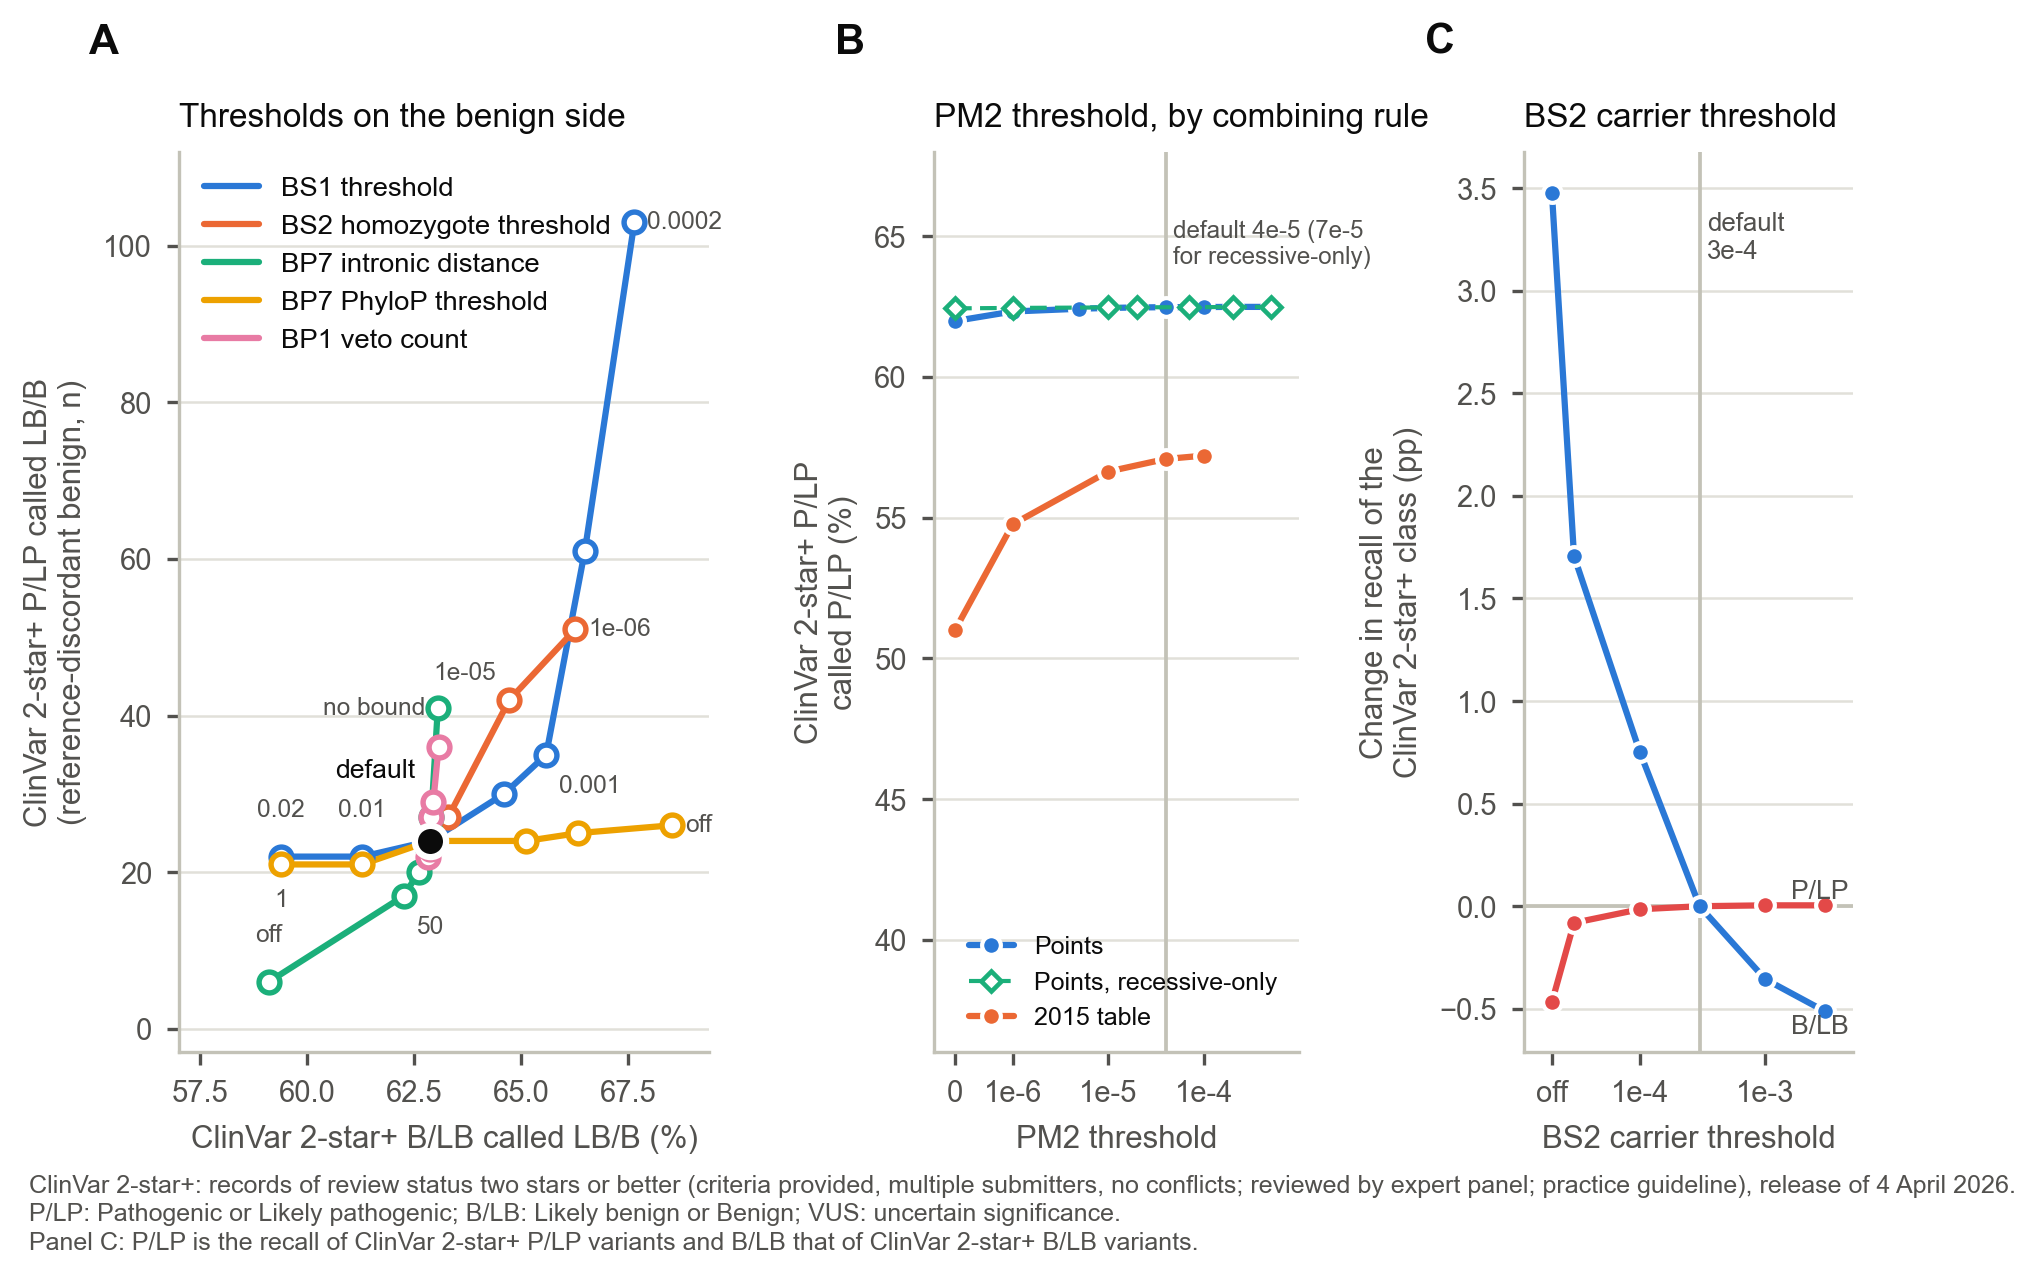
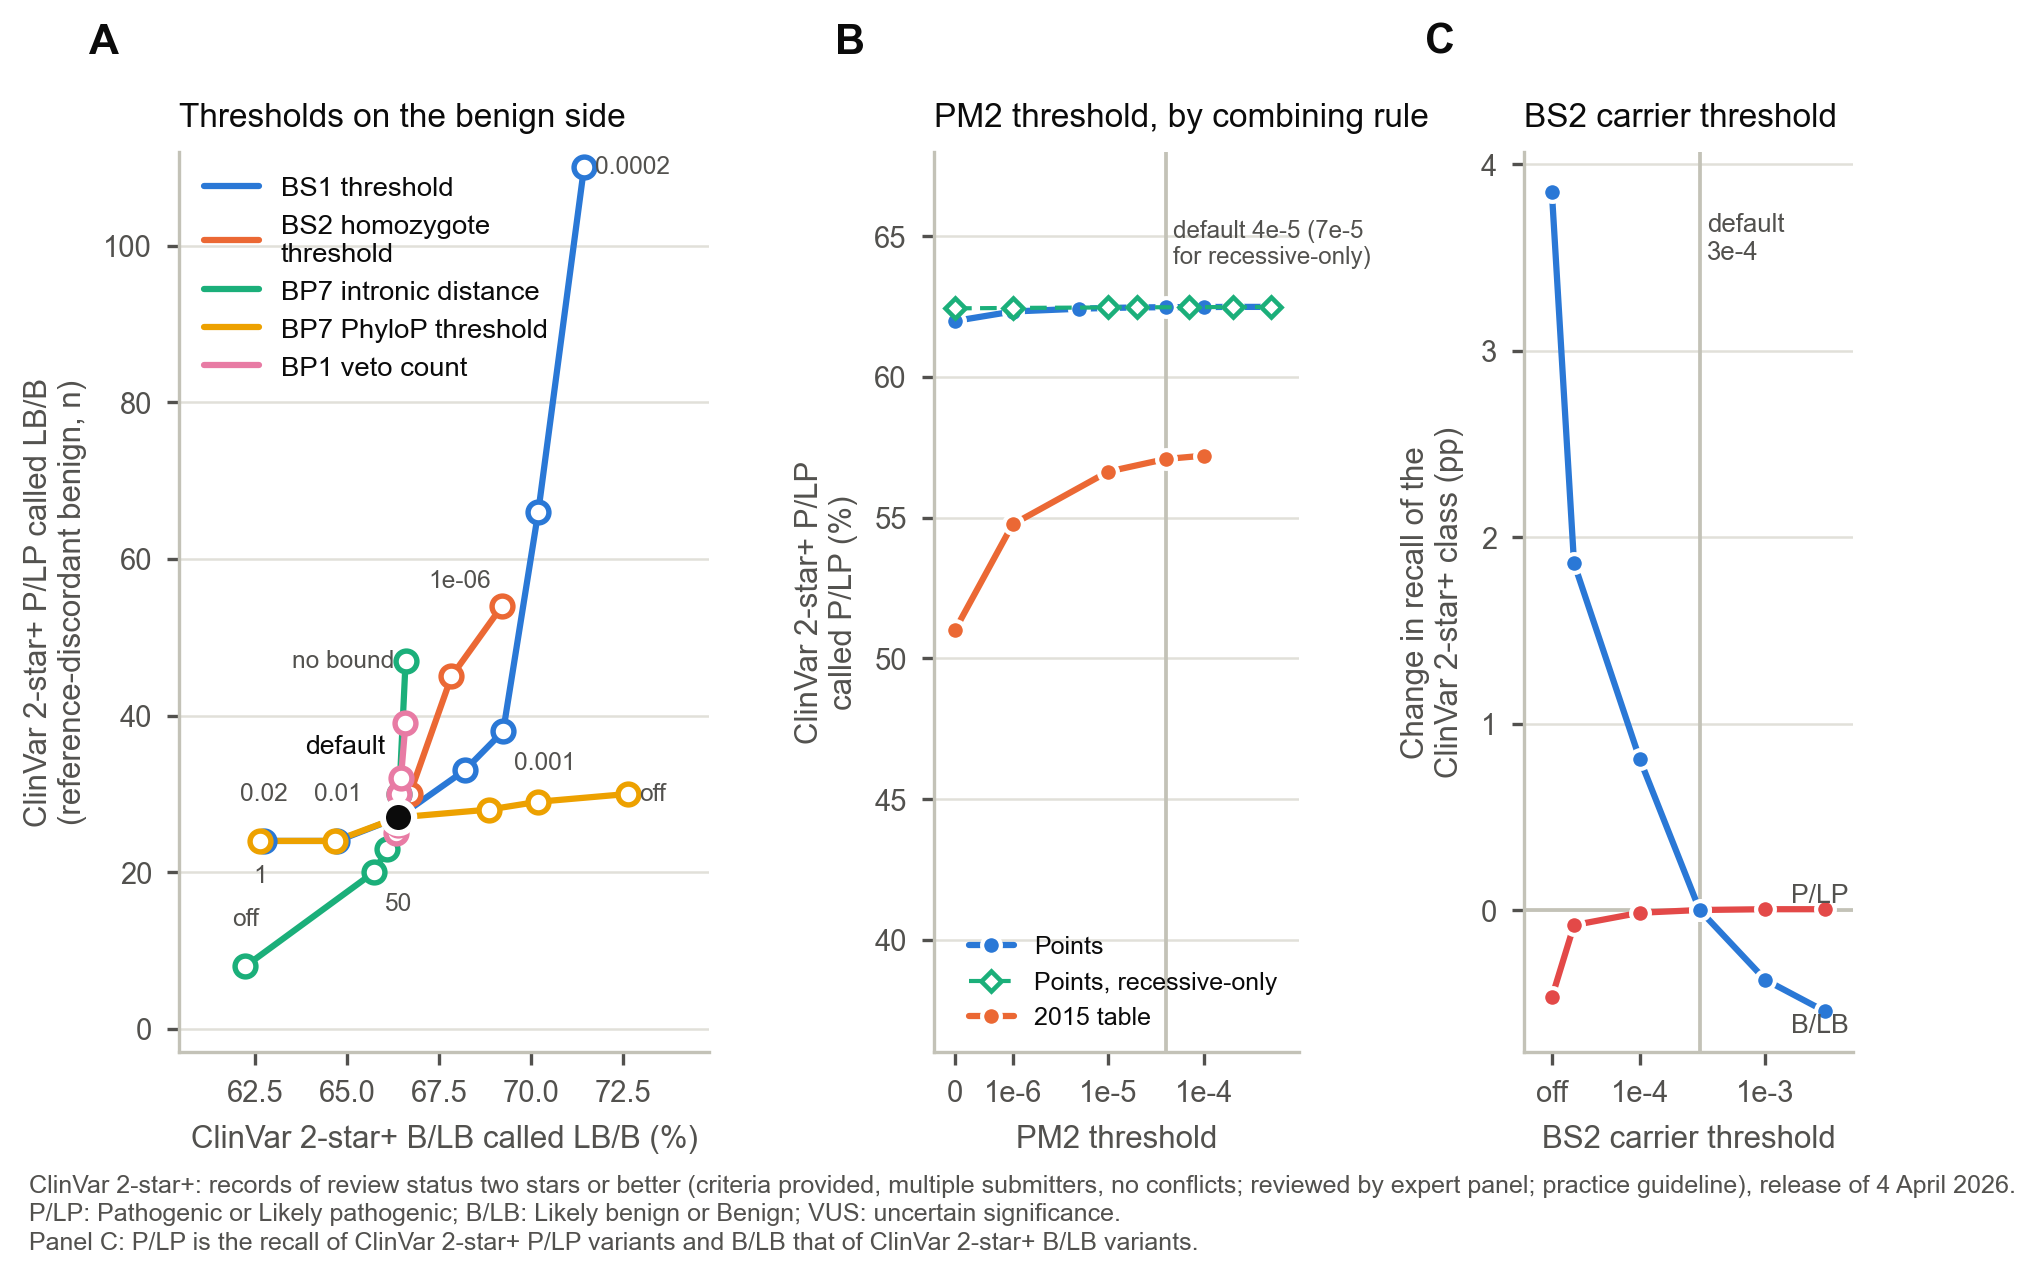
docs(acmg): redraw the figures from the runs on the complete databases and let the axes of Figure 1A follow the curves, so that no curve leaves its frame
The benign-side recall of every run rose with the complete databases, which put the right end of the BS1 curve outside the fixed limits of Figure 1A and its labels in the next panel. The limits follow the data, the legend entry of the BS2 threshold has two lines, and the label of R2 alone in Figure S4 sits left of its marker, clear of the longer legend.

diff --git a/manuscript/acmg/generate_figures.py b/manuscript/acmg/generate_figures.py
@@ -880,16 +880,18 @@ def fig1_thresholds() -> None:
     # (dx, dy, alignment) of each labelled point, in data units, chosen so no label sits on a line.
     knobs = [
         ("bs1_af_threshold", "BS1 threshold", CAT[0], "0.005", {"0.0002": (0.3, 0, "left"), "0.001": (0.3, -4, "left"), "0.02": (0, 6, "center"), "0.01": (0, 6, "center")}),
-        ("bs2_hom_prevalence_threshold", "BS2 homozygote threshold", CAT[1], "0.001", {"1e-06": (0.3, 0, "left"), "1e-05": (-0.3, 3.5, "right")}),
+        ("bs2_hom_prevalence_threshold", "BS2 homozygote threshold", CAT[1], "0.001", {"1e-06": (-0.3, 3.2, "right")}),
         ("bp7_max_intron_offset", "BP7 intronic distance", CAT[2], "300", {"0": (0, 6, "center"), "50": (0.3, -4, "left"), "1000000": (-0.3, 0, "right")}),
         ("phylop_conserved", "BP7 PhyloP threshold", CAT[3], "2.0", {"1": (0, -4.5, "center"), "1000": (0.3, 0, "left")}),
         ("bp1_max_pathogenic_missense", "BP1 veto count", CAT[4], "3", {"1": (0.3, -3.5, "left"), "25": (0.3, 0, "left")}),
     ]
-    show = {"bs1_af_threshold": {"0.0002", "0.001", "0.01", "0.02"}, "bs2_hom_prevalence_threshold": {"1e-06", "1e-05"},
+    show = {"bs1_af_threshold": {"0.0002", "0.001", "0.01", "0.02"}, "bs2_hom_prevalence_threshold": {"1e-06"},
             "bp7_max_intron_offset": {"0", "50", "1000000"}, "phylop_conserved": {"1", "1000"}, "bp1_max_pathogenic_missense": set()}  # its points sit on the default one and on BP7's line; the caption names the range
+    all_x = [float(base.blb_recall) * 100]
     for knob, label, color, shipped, offs in knobs:
         sub = r[(r.knob == knob) & (r.group == "sweep")].copy()
         sub["v"] = sub.value.astype(str)
+        all_x += [float(v_) * 100 for v_ in sub.blb_recall]
         pts = [(float(base.blb_recall) * 100, int(base.false_benign), shipped)]
         for row in sub.itertuples():
             pts.append((row.blb_recall * 100, int(row.false_benign), row.v))
@@ -906,12 +908,14 @@ def fig1_thresholds() -> None:
                 axA.text(x + dx, y + dy, fmt, fontsize=5.9, color=INK2, ha=ha, va="center")
     axA.plot([float(base.blb_recall) * 100], [int(base.false_benign)], marker="o", ms=MS + 2, mfc=INK, mec=SURFACE, mew=1.5, zorder=5)
     axA.text(float(base.blb_recall) * 100 - 0.35, int(base.false_benign) + 9, "default", fontsize=6.4, color=INK, ha="right", va="center")
-    axA.set_xlim(57, 69.4)
+    # limits that follow the curves (the right margin holds the label of the last BS1 point, which is written to its right)
+    axA.set_xlim(min(all_x) - 1.8, max(all_x) + 2.2)
     axA.set_ylim(-3, 112)
     axA.set_xlabel(f"{CV} B/LB called LB/B (%)")
     axA.set_ylabel(f"{CV} P/LP called LB/B\n(reference-discordant benign, n)")
     hgrid(axA)
-    axA.legend(handles=[Line2D([0], [0], color=c, lw=LW, label=l) for _, l, c, _, _ in knobs], loc="upper left", fontsize=6.6)
+    # the entry of the BS2 threshold is on two lines: the steep end of the BS1 curve rises through the upper left, and a longer line of text meets it
+    axA.legend(handles=[Line2D([0], [0], color=c, lw=LW, label=l.replace("homozygote threshold", "homozygote\nthreshold")) for _, l, c, _, _ in knobs], loc="upper left", fontsize=6.6)
     axA.set_title("Thresholds on the benign side", loc="left", fontsize=8, pad=6)
     panel_letter(axA, "A", x=-0.17, y=1.10)
 
@@ -1125,7 +1129,7 @@ def figS4_frontier() -> None:
 
     # the versions
     ax.plot(line_rows.opposite, line_rows.same_direction_rate * 100, color=CAT[0], lw=LW, marker="o", ms=MS - 2, mec=SURFACE, mew=0.8, zorder=4)
-    ax.plot(complete.opposite, complete.same_direction_rate * 100, color=CAT[0], lw=1.0, ls=(0, (3, 2)), marker="D", ms=MS - 2, mec=SURFACE, mew=0.8, zorder=4)
+    ax.plot(complete.opposite, complete.same_direction_rate * 100, color=CAT[0], lw=1.0, ls=(0, (3, 2)), marker="D", ms=MS - 2, mec=SURFACE, mew=0.8, zorder=7)  # above the black marker of v38, which is one of the two
     # (x factor, y offset, alignment) of each version label, chosen so that none sits on a line
     for run, fx, dy, ha in (("v7", 1.12, -1.5, "left"), ("v8", 1.0, 1.6, "center"), ("v10", 0.86, -1.5, "right"), ("v13", 1.45, 1.4, "left")):
         r = line_rows[line_rows.run == run].iloc[0]
@@ -1150,12 +1154,12 @@ def figS4_frontier() -> None:
         r = curve[curve.rule == rule].iloc[0]
         ax.plot([r.opposite], [r.same_direction_share * 100], ls="none", marker=mk, ms=MS - 1.0, mfc=col, mec=SURFACE, mew=0.9, zorder=5)
     r3 = curve[curve.rule == "R2 + R3"].iloc[0]
-    ax.annotate(f"no frequency rule: {r3.same_direction_share * 100:.1f}%, {int(r3.opposite)}", xy=(r3.opposite, r3.same_direction_share * 100),
+    ax.annotate(f"no frequency rule: {r3.same_direction_share * 100:.1f}%, {int(r3.opposite):,}", xy=(r3.opposite, r3.same_direction_share * 100),
                 xytext=(r3.opposite * 2.0, r3.same_direction_share * 100 - 3.0), fontsize=6.4, color=INK2, ha="center",
                 arrowprops=dict(arrowstyle="-", color=AXIS, lw=0.8, shrinkA=0, shrinkB=3))
     r2 = curve[curve.rule == "R2"].iloc[0]
-    ax.text(r2.opposite * 1.25, r2.same_direction_share * 100, f"R2 alone: {r2.same_direction_share * 100:.1f}%, {int(r2.opposite)}", fontsize=6.4,
-            color=INK2, ha="left", va="center")
+    ax.text(r2.opposite / 1.25, r2.same_direction_share * 100, f"R2 alone: {r2.same_direction_share * 100:.1f}%, {int(r2.opposite)}", fontsize=6.4,
+            color=INK2, ha="right", va="center")
 
     # every variant VUS, and the base
     ax.plot([0], [base.loc["all VUS", "same_direction_share"] * 100], marker="D", ms=MS - 1, mfc=INK2, mec=SURFACE, mew=0.8, zorder=5, ls="none")
